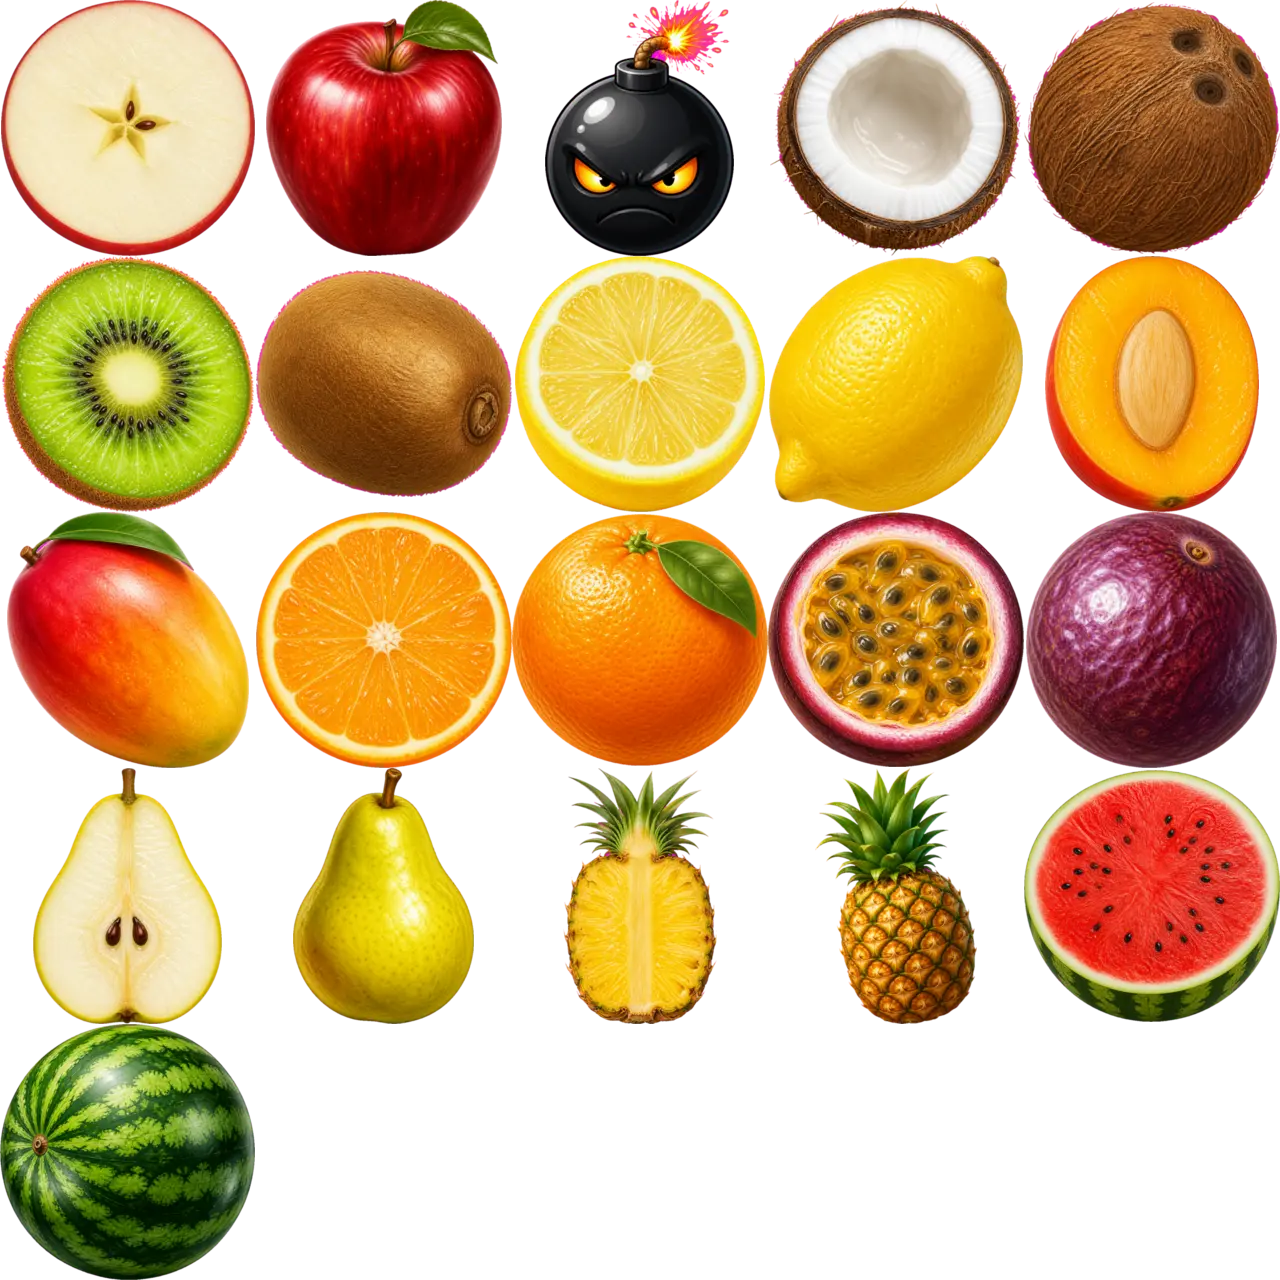
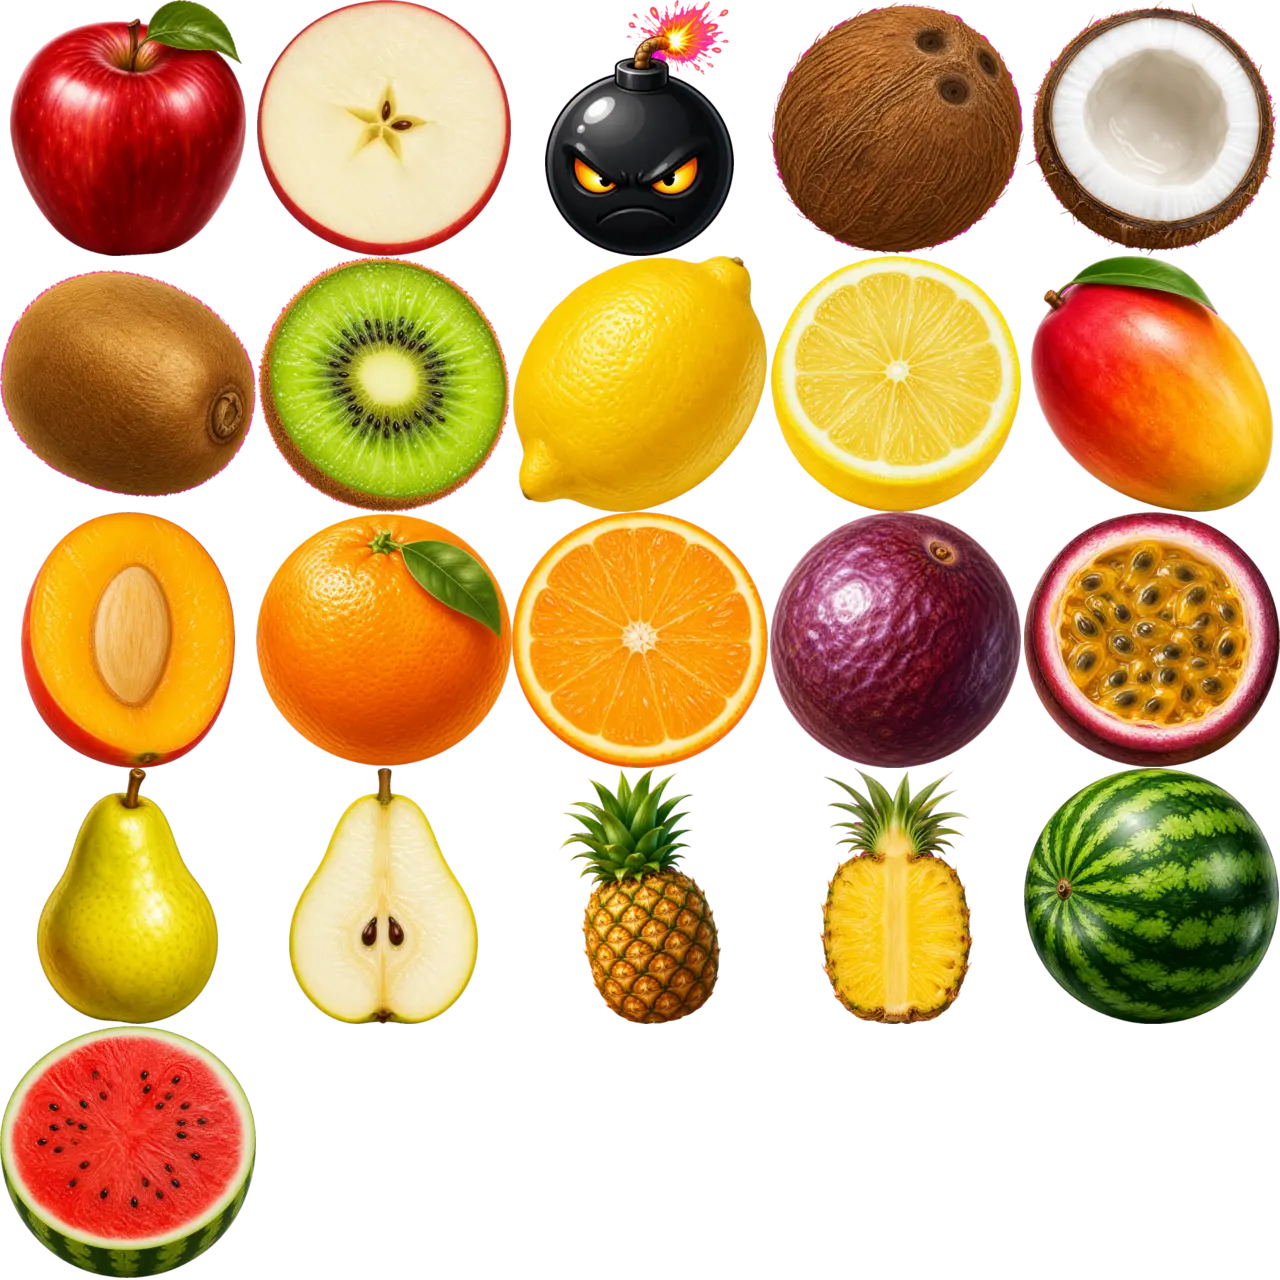
fix: restore music after auth and correct whole-fruit sprites
Magic OTP and wallet popups were leaving Web Audio suspended with a dead theme scheduler; revive it after sign-in. Regenerate the fruit sheet with matching montage/JSON order so airborne fruits are whole again, and bump toss apex so smaller fruit still reaches the old bounce height.

diff --git a/client/src/audio/AudioManager.ts b/client/src/audio/AudioManager.ts
@@ -227,6 +227,8 @@ export class AudioManager {
     } catch {
       /* gesture may be required */
     }
+    // OTP / wallet iframes leave theme timers zombie after a long suspend.
+    this.restartActiveThemeScheduler()
   }
 
   private resumeIfNeeded() {
@@ -241,6 +243,8 @@ export class AudioManager {
   async unlock() {
     this.bootstrap()
     if (!this.ctx) return
+    // User gesture — clear visibility lock so Magic/wallet iframes can't strand us.
+    this.suspendedByVisibility = false
     if (this.ctx.state === 'suspended') {
       try {
         // Some browsers never settle resume() until a gesture — don't hang callers.
@@ -260,8 +264,31 @@ export class AudioManager {
   kick() {
     this.bootstrap()
     if (!this.ctx) return
+    // Pointer = gesture; don't stay muted after Magic OTP / extension popups.
+    this.suspendedByVisibility = false
     this.resumeIfNeeded()
     if (this.ctx.state === 'running') this.unlocked = true
+  }
+
+  /**
+   * After Magic OTP / wallet extension flows the AudioContext often resumes
+   * muted with a dead theme scheduler. Call on auth success (user gesture).
+   */
+  async revive() {
+    await this.unlock()
+    this.kick()
+    if (!this.ctx || !this.musicEnabled) return
+    if (this.theme === 'none') {
+      this.enterMenu()
+      return
+    }
+    this.restartActiveThemeScheduler()
+  }
+
+  private restartActiveThemeScheduler() {
+    if (this.theme === 'none') return
+    this.clearThemeTimer(this.theme)
+    this.ensureThemeScheduler(this.theme)
   }
 
   // ── Settings ──────────────────────────────────────────────

diff --git a/client/src/state/useWallet.ts b/client/src/state/useWallet.ts
@@ -1,6 +1,7 @@
 import { useCallback, useEffect, useMemo, useState } from 'react'
 import type { Connector } from 'wagmi'
 import { useAccount, useConnect, useDisconnect } from 'wagmi'
+import { audio } from '../audio'
 import {
   isMagicConfigured,
   loginWithEmail as magicLoginWithEmail,
@@ -160,9 +161,13 @@ export function useWalletImpl(): WalletState {
           clearMagicLocal()
         })
       }
-      connectAsync({ connector: option.connector }).catch(() => {
-        // Rejection/failure surfaces through `error`; keep the picker open.
-      })
+      connectAsync({ connector: option.connector })
+        .then(() => {
+          void audio.revive()
+        })
+        .catch(() => {
+          // Rejection/failure surfaces through `error`; keep the picker open.
+        })
     },
     [clearMagicLocal, connectAsync, isPending, magicAddress, magicBusy],
   )
@@ -178,11 +183,15 @@ export function useWalletImpl(): WalletState {
         setMagicAddress(session.address)
         setMagicEmail(session.email ?? email.trim())
         setMenuOpen(false)
+        // Magic OTP iframe suspends Web Audio — kick the menu groove back on.
+        void audio.revive()
       } catch (err) {
         const message = err instanceof Error ? err.message : 'Email sign-in failed'
         if (!/cancel|closed/i.test(message)) {
           setMagicError(shortMagicError(message))
         }
+        // Cancelled OTP still stole focus — restore music if we can.
+        void audio.revive()
         throw err
       } finally {
         setMagicBusy(false)

diff --git a/client/src/App.tsx b/client/src/App.tsx
@@ -225,14 +225,30 @@ export default function App() {
       screen === 'onboarding' ||
       screen === 'splash'
     ) {
-      if (audio.currentTheme !== 'menu') audio.enterMenu()
+      void audio.unlock().then(() => {
+        audio.kick()
+        if (audio.currentTheme !== 'menu') audio.enterMenu()
+      })
       return
     }
     // Shop & tournaments get the hotter alternate dance groove.
     if (screen === 'shop' || screen === 'tournaments') {
-      if (audio.currentTheme !== 'hype') audio.enterHype(600)
+      void audio.unlock().then(() => {
+        audio.kick()
+        if (audio.currentTheme !== 'hype') audio.enterHype(600)
+      })
     }
   }, [screen])
+
+  // Wallet/email overlays steal focus — resume Web Audio when the window returns.
+  useEffect(() => {
+    const onFocus = () => {
+      if (!audio.isMusicEnabled) return
+      void audio.revive()
+    }
+    window.addEventListener('focus', onFocus)
+    return () => window.removeEventListener('focus', onFocus)
+  }, [])
 
   // Esc closes the settings popup.
   useEffect(() => {

diff --git a/client/src/game/FruitRushGame.ts b/client/src/game/FruitRushGame.ts
@@ -620,8 +620,9 @@ export class FruitRushGame {
     const x = w * (0.1 + Math.random() * 0.8)
     const y = h + radius + 10
 
-    // Explosive launch: 60-120 degrees, apex between 45% and 82% of the screen.
-    const apex = h * (0.45 + Math.random() * 0.37)
+    // Explosive launch: 60-120 degrees. Apex matches the pre-shrink peak height
+    // (smaller fruit spawn ~30px lower, so bump the toss by the same amount).
+    const apex = h * (0.45 + Math.random() * 0.37) + 30
     const vyMag = Math.sqrt(2 * GRAVITY * apex)
     const angleDeg = 60 + Math.random() * 60
     let vx = vyMag / Math.tan((angleDeg * Math.PI) / 180)
